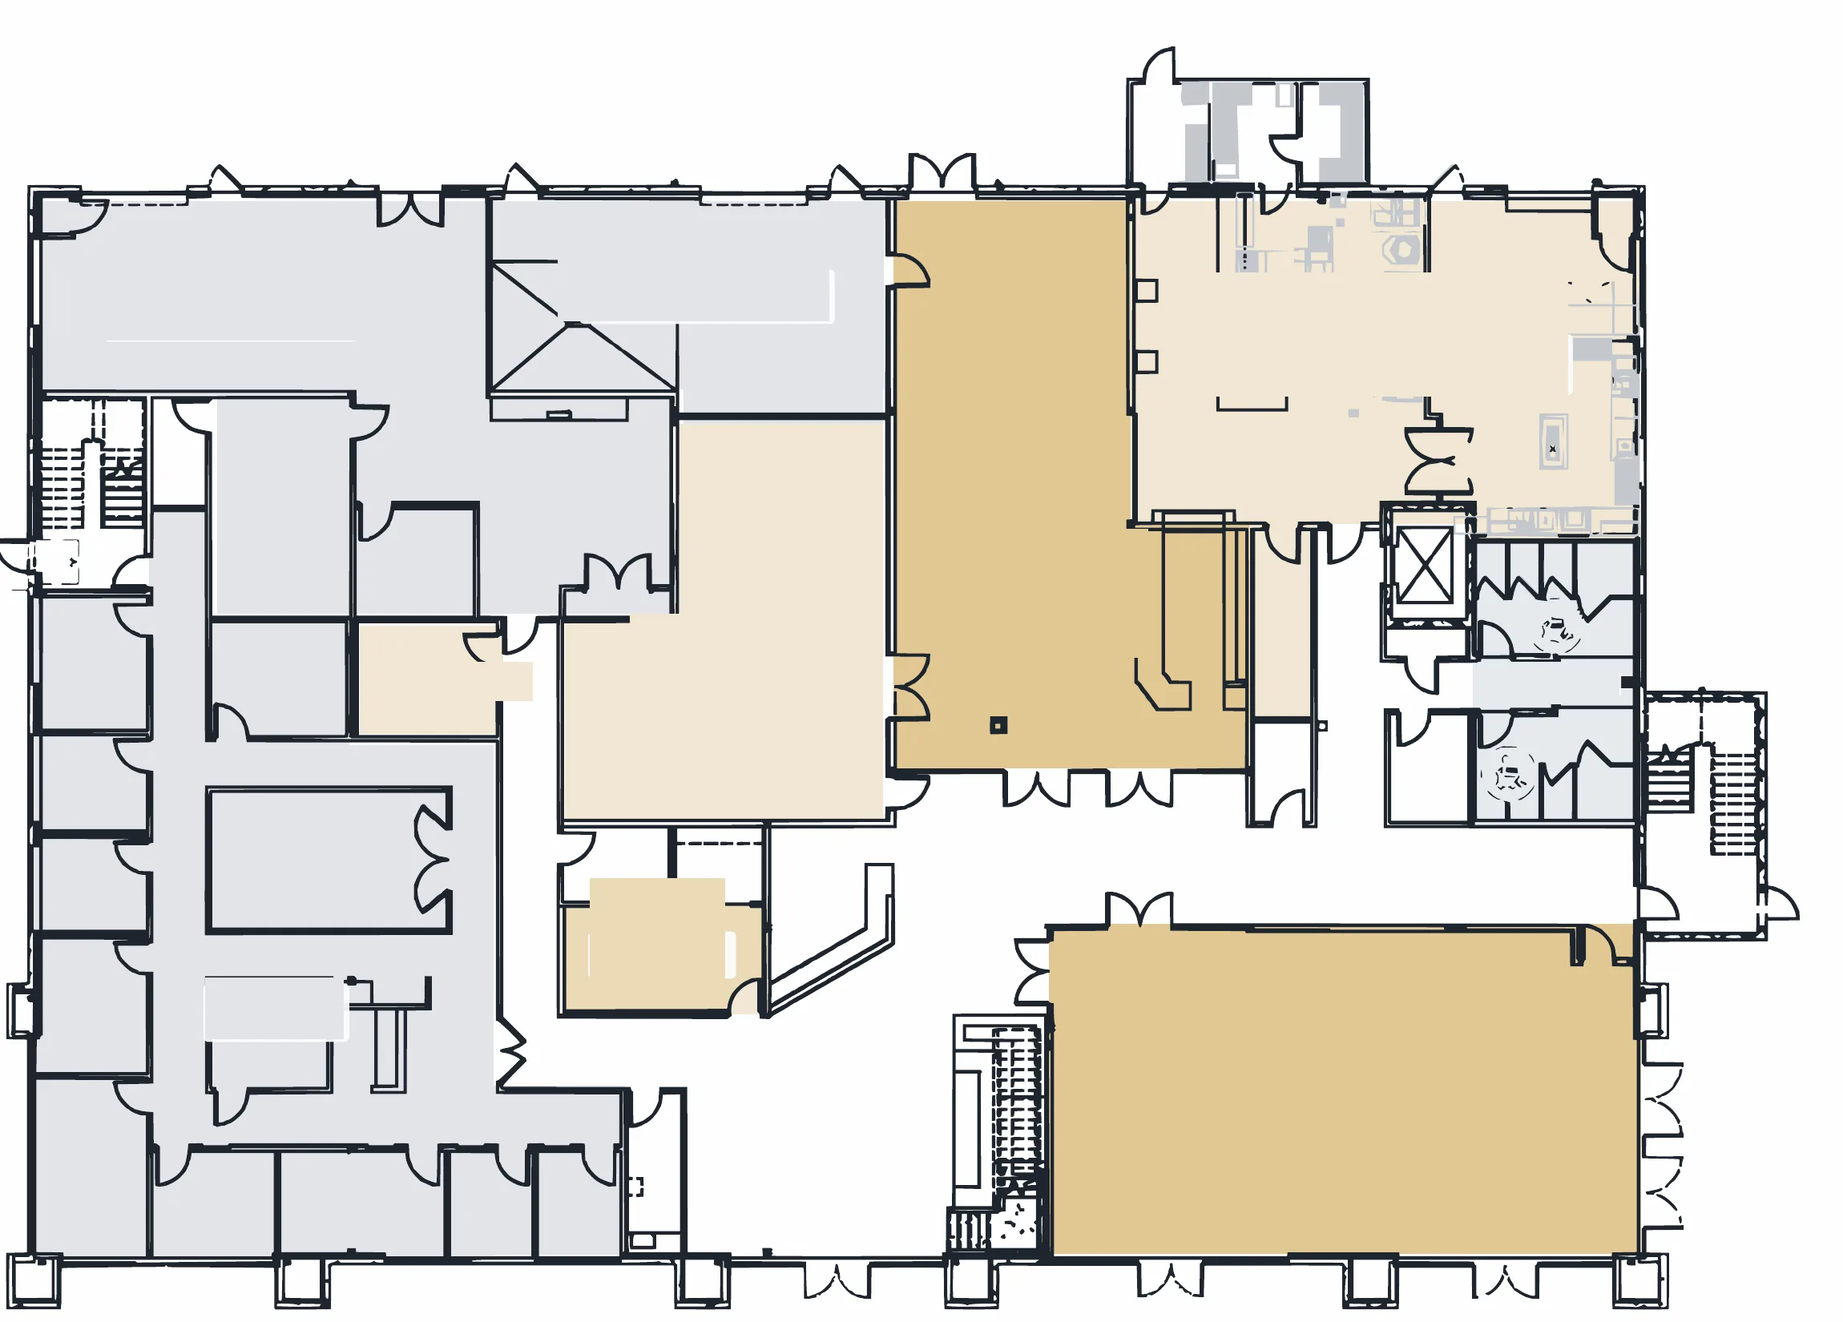
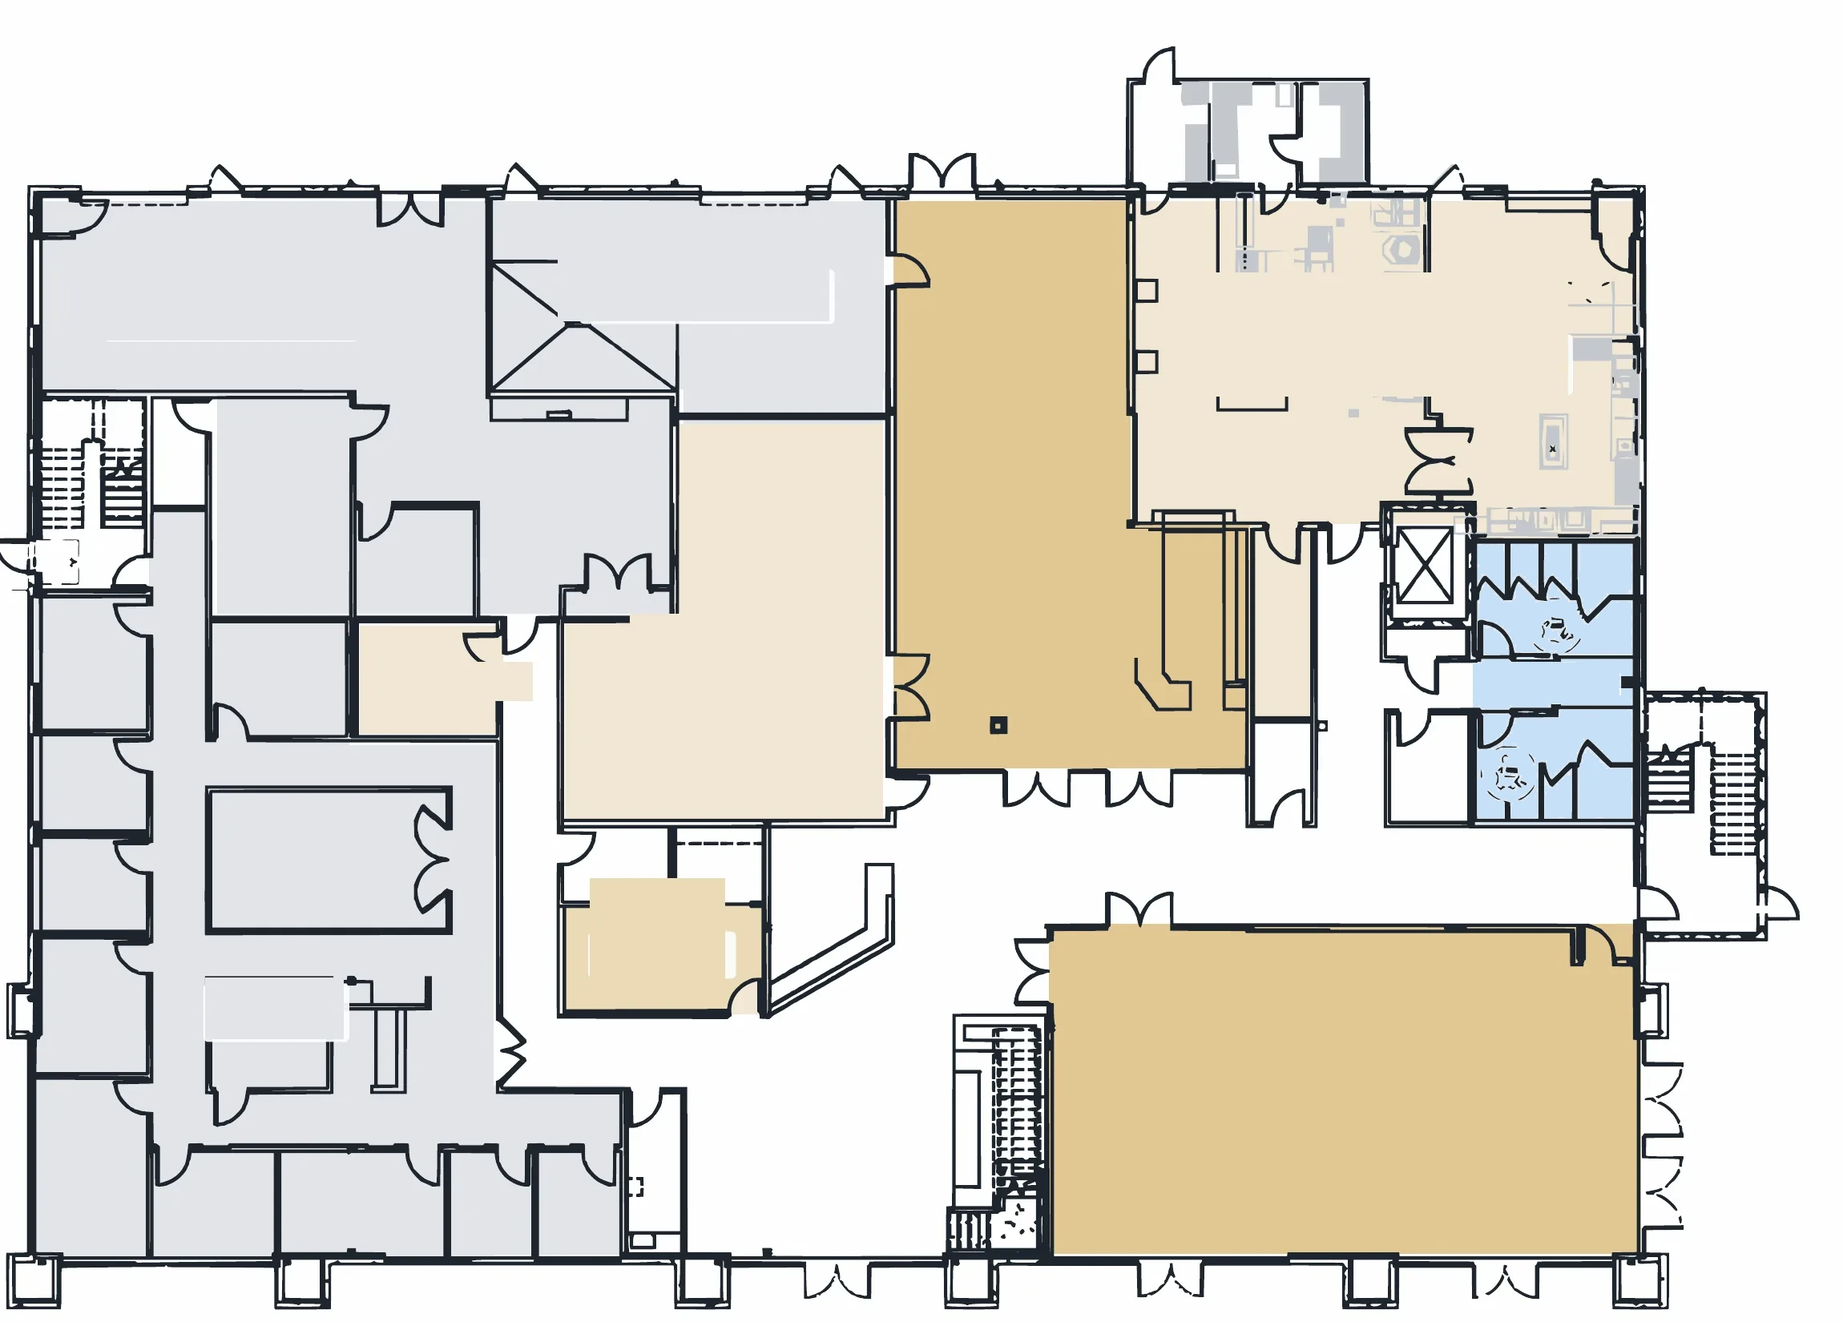
Explore: correct photos, Co-Revel hotspot, distinct restroom color
- RoboJo uses the lobby photo with the RoboJo kiosk (same image as the
  Our Community hero); Co-Revel Café uses the café counter with the
  Fresh Blends bar; Phone Booths uses the enclosed-booth photo
- Co-Revel hotspot now covers only the room labelled CO-REVEL (it
  spanned the whole west wing: offices, desks, Cornerstone, Horizon,
  booths)
- Floor maps: restrooms recolored a clear light blue (199,224,247);
  they were (230,234,237), nearly the tenant grey (227,228,232). Only
  the restroom block is changed; webp re-encoded at quality 90

Claude-Session: https://claude.ai/code/session_01WQH7hqD1qt1mryuk6DfRhT

Changed region(s): [[0.8026, 0.4018, 0.8952, 0.6182]]

diff --git a/explore/index.html b/explore/index.html
@@ -267,7 +267,7 @@ html{font-size:17px.footer .container{max-width:1600px;padding:0 48px}.footer-gr
     </svg>
     <svg id="xpSvg2" viewBox="0 0 2300 1500" role="group" aria-label="Second floor plan of Revelance" hidden>
       <image href="../images/map-floor2.webp" width="2300" height="1500"/>
-        <g class="xp-rg" data-id="corevel"><polygon class="xp-room" data-id="corevel" points="40,60 860,60 860,470 980,470 980,1420 40,1420"><title>Co-Revel Coworking</title></polygon><text x="510" y="1186" font-size="34">Co-Revel</text></g>
+        <g class="xp-rg" data-id="corevel"><polygon class="xp-room" data-id="corevel" points="48,1050 670,1050 670,1005 752,1000 915,912 972,1000 972,1415 48,1415"><title>Co-Revel Coworking</title></polygon><text x="510" y="1186" font-size="34">Co-Revel</text></g>
         <g class="xp-rg" data-id="cornerstone"><polygon class="xp-room" data-id="cornerstone" points="50,60 290,60 290,330 50,330"><title>Cornerstone Boardroom</title></polygon><text x="170" y="186" font-size="21">Cornerstone</text><text x="170" y="222" font-size="16">Boardroom</text></g>
         <g class="xp-rg" data-id="horizon"><polygon class="xp-room" data-id="horizon" points="456,864 664,864 664,1036 456,1036"><title>Horizon Boardroom</title></polygon><text x="560" y="940" font-size="22">Horizon</text><text x="560" y="974" font-size="17">Boardroom</text></g>
         <g class="xp-rg" data-id="overlook"><polygon class="xp-room" data-id="overlook" points="1016,486 1226,486 1226,676 1016,676"><title>Overlook Boardroom</title></polygon><text x="1120" y="576" font-size="22">Overlook</text><text x="1120" y="610" font-size="17">Boardroom</text></g>
@@ -310,7 +310,7 @@ html{font-size:17px.footer .container{max-width:1600px;padding:0 48px}.footer-gr
 </section>
 
 <script>
-var XP_ROOMS = {"revel": {"floor": 1, "name": "Revel Room", "label": "Event Center", "desc": "The event center. Weddings, galas, corporate events - with a built-in stage wall for presentations and celebrations alike.", "url": "../revel-room/", "img": "../images/revel-banquet-sunset.webp", "alt": "Banquet setup in the Revel Room at sunset", "video": null, "rows": [["Capacity", "125 banquet · 225 reception"], ["Features", "25-ft ceilings · 12×10 ft video wall"], ["Best for", "Weddings, galas, corporate events"], ["Booking", "Start with the event wizard"]]}, "taproom": {"floor": 1, "name": "The Taproom", "label": "First Floor", "desc": "Craft beer next door to everything. Cocktail hours flow straight from here into the Revel Room.", "url": "../taphouse/", "img": "../images/taphouse-overlook.webp", "alt": "Looking down into a full Taproom from the overlook", "video": null, "rows": [["Capacity", "60 seated · 80 standing"], ["Features", "Craft beer by Sonder Brewing · bartender included with events"], ["Best for", "Happy hours, cocktail receptions"], ["Booking", "Book with your event"]]}, "e9": {"floor": 1, "name": "Emergency 9", "label": "Golf Simulator", "desc": "Golf simulator lounge for practice, play, and client entertainment.", "url": "../e9/", "img": "../images/e9-golf-simulator.webp", "alt": "The Emergency 9 golf simulator", "video": null, "rows": [["Capacity", "25 seated · 40 standing"], ["Features", "ProTee VX simulator · 10×16 ft impact screen"], ["Best for", "Client entertainment, team events"], ["Booking", "Start with the event wizard"]]}, "culinary": {"floor": 1, "name": "Culinary Lab", "label": "Zink Foodservice", "desc": "Official Zink Culinary Center - classes, tastings, and the kitchen behind catered events.", "url": "../culinary-lab/", "img": "../images/culinary-lab.webp", "alt": "The Culinary Lab commercial kitchen", "video": null, "rows": [["Capacity", "20 seated · 30 standing"], ["Size", "400 sq ft commercial kitchen"], ["Features", "USDA-compliant · official Zink Culinary Center"], ["Best for", "Classes, tastings, catered events"], ["Booking", "Start with the event wizard"]]}, "foundation": {"floor": 1, "name": "Foundation Boardroom", "label": "First Floor", "desc": "The first-floor meeting room - steps from the Taproom and the event spaces.", "url": "../boardrooms/", "img": "../images/foundation-boardroom.webp", "alt": "The Foundation Boardroom", "video": null, "rows": [["Capacity", "Seats 10"], ["Features", "First-floor meeting room"], ["Best for", "Meetings, workshops"], ["Booking", "Bookable in the Revelance App"]]}, "corevel": {"floor": 2, "name": "Co-Revel Coworking", "label": "Members' Floor", "desc": "The members' floor - set apart from events below, so your workday never gets bumped by a banquet.", "url": "../coworking/", "img": "../images/cowork-community.webp", "alt": "The Co-Revel coworking floor", "video": null, "rows": [["Floor", "Dedicated 2nd floor · never displaced by events"], ["Features", "Open seating, dedicated desks, private offices"], ["Best for", "Daily work, teams, day passes"], ["Booking", "Included with membership"]]}, "csuite": {"floor": 2, "name": "C-Suite Lounge", "label": "Members' Floor", "desc": "The private lounge. Your bottle, your locker, your client's favorite pour already waiting - and the whole room can be rented for private events.", "url": "../c-suite/", "img": "../images/csuite-lifestyle-lounge.webp", "alt": "The C-Suite Lounge", "video": null, "rows": [["Capacity", "14 seated · 25 standing"], ["Features", "50 personal bourbon lockers · 65″ TV"], ["Best for", "Client entertainment, bourbon tastings, private events"], ["Booking", "Included with membership · also available to rent"]]}, "cornerstone": {"floor": 2, "name": "Cornerstone Boardroom", "label": "Second Floor", "desc": "The members-only boardroom, reserved for Dedicated Desk tiers and up.", "url": "../boardrooms/", "img": "../images/cornerstone-boardroom.webp", "alt": "The Cornerstone Boardroom", "video": null, "rows": [["Capacity", "Seats 10"], ["Access", "Dedicated Desk members & above"], ["Best for", "Team meetings"], ["Booking", "Bookable in the Revelance App"]]}, "horizon": {"floor": 2, "name": "Horizon Boardroom", "label": "Second Floor", "desc": "The executive boardroom - the big table for the big meeting.", "url": "../boardrooms/", "img": "../images/horizon-boardroom.webp", "alt": "The Horizon Boardroom", "video": null, "rows": [["Capacity", "Seats 14"], ["Features", "Executive boardroom"], ["Best for", "Board meetings, presentations, private meetings"], ["Booking", "Members book in the Revelance App · also available to rent"]]}, "overlook": {"floor": 2, "name": "Overlook Boardroom", "label": "Second Floor", "desc": "The small room with the big windows - built for focused sessions.", "url": "../boardrooms/", "img": "../images/overlook-boardroom.webp", "alt": "The Overlook Boardroom", "video": null, "rows": [["Capacity", "Seats 6"], ["Features", "Panoramic views"], ["Best for", "Focused sessions, 1-on-1s"], ["Booking", "Bookable in the Revelance App"]]}, "robojo": {"floor": 1, "name": "RoboJo Coffee", "label": "First-Floor Lobby", "desc": "The robotic barista in the lobby — immediately on your left as you come in the front doors. Order ahead in the app and your latte is waiting.", "url": "../blog/robojo-coffee-app-preorder-latte-art-rewards", "img": "../images/cowork-cafe-counter.webp", "alt": "The RoboJo coffee counter in the Revelance lobby", "video": null, "cta": "Read the Story", "rows": [["What", "Robotic barista café — espresso drinks & cold brew"], ["Order", "Preorder in the RoboJo app · latte art rewards"], ["Where", "Lobby, just inside the main entrance"], ["Access", "Open to the public"]]}, "podcast": {"floor": 1, "name": "Podcast Studio", "label": "First Floor", "desc": "The building's dedicated podcast room — record interviews, episodes, and company audio without leaving Revelance.", "url": "../coworking/", "img": "../images/podcast-studio-card.webp", "alt": "The Revelance Podcast Studio", "video": null, "cta": "Explore Membership", "rows": [["What", "Podcast & recording room"], ["Where", "First floor, beside the E9 Golf Simulator"], ["Details", "Ask the front desk · 513-794-5070"]]}, "cafe": {"floor": 2, "name": "Co-Revel Café", "label": "Members' Floor", "desc": "The members' café on the west wall of Co-Revel — home of the Fresh Blends robotic smoothie and shake bar.", "url": "../coworking/", "img": "../images/cowork-cafe-floor.webp", "alt": "The Co-Revel Café seating and counter area", "video": null, "cta": "Explore Co-Revel", "rows": [["What", "Café + Fresh Blends smoothie & shake bar"], ["Menu", "Smoothies, shakes, frappés, cold brew, refreshers"], ["Where", "West wall of Co-Revel, second floor"], ["Access", "Included with membership & day passes"]]}, "booths": {"floor": 2, "name": "Phone Booths", "label": "Members' Floor", "desc": "Private booths along the back wall of Co-Revel — step in, shut the door, take the call.", "url": "../coworking/", "img": "../images/coworking-space.webp", "alt": "The Co-Revel members' floor", "video": null, "cta": "Explore Co-Revel", "rows": [["What", "Private call & focus booths"], ["Where", "East side of Co-Revel, by the Overlook Boardroom"], ["Booking", "Walk up — no reservation needed"], ["Access", "Included with membership & day passes"]]}, "desks": {"floor": 2, "name": "Dedicated Desks", "label": "Members' Floor", "desc": "Your own enclosed desk pod in the heart of Co-Revel — set up once, leave your gear, and it's yours around the clock.", "url": "../memberships/#memberships", "img": "../images/cowork-focus-pods.webp", "alt": "Dedicated desk pods on the Co-Revel floor", "video": null, "cta": "See Membership Plans", "rows": [["What", "Your own enclosed desk pod"], ["Where", "Center of Co-Revel, second floor"], ["Access", "Dedicated Desk members & above"], ["Booking", "Included with the Dedicated Desk tier"]]}, "offices": {"floor": 2, "name": "Private Offices", "label": "Members' Floor", "desc": "Enclosed private offices along the west wall and north side of Co-Revel — a door, a desk, and the whole members' floor outside it.", "url": "../coworking/", "img": "../images/executive-office.webp", "alt": "A private office at Revelance", "video": null, "cta": "Explore Co-Revel", "rows": [["What", "Enclosed private offices"], ["Where", "West wall & north side of Co-Revel"], ["Details", "Ask about availability · 513-794-5070"]]}};
+var XP_ROOMS = {"revel": {"floor": 1, "name": "Revel Room", "label": "Event Center", "desc": "The event center. Weddings, galas, corporate events - with a built-in stage wall for presentations and celebrations alike.", "url": "../revel-room/", "img": "../images/revel-banquet-sunset.webp", "alt": "Banquet setup in the Revel Room at sunset", "video": null, "rows": [["Capacity", "125 banquet · 225 reception"], ["Features", "25-ft ceilings · 12×10 ft video wall"], ["Best for", "Weddings, galas, corporate events"], ["Booking", "Start with the event wizard"]]}, "taproom": {"floor": 1, "name": "The Taproom", "label": "First Floor", "desc": "Craft beer next door to everything. Cocktail hours flow straight from here into the Revel Room.", "url": "../taphouse/", "img": "../images/taphouse-overlook.webp", "alt": "Looking down into a full Taproom from the overlook", "video": null, "rows": [["Capacity", "60 seated · 80 standing"], ["Features", "Craft beer by Sonder Brewing · bartender included with events"], ["Best for", "Happy hours, cocktail receptions"], ["Booking", "Book with your event"]]}, "e9": {"floor": 1, "name": "Emergency 9", "label": "Golf Simulator", "desc": "Golf simulator lounge for practice, play, and client entertainment.", "url": "../e9/", "img": "../images/e9-golf-simulator.webp", "alt": "The Emergency 9 golf simulator", "video": null, "rows": [["Capacity", "25 seated · 40 standing"], ["Features", "ProTee VX simulator · 10×16 ft impact screen"], ["Best for", "Client entertainment, team events"], ["Booking", "Start with the event wizard"]]}, "culinary": {"floor": 1, "name": "Culinary Lab", "label": "Zink Foodservice", "desc": "Official Zink Culinary Center - classes, tastings, and the kitchen behind catered events.", "url": "../culinary-lab/", "img": "../images/culinary-lab.webp", "alt": "The Culinary Lab commercial kitchen", "video": null, "rows": [["Capacity", "20 seated · 30 standing"], ["Size", "400 sq ft commercial kitchen"], ["Features", "USDA-compliant · official Zink Culinary Center"], ["Best for", "Classes, tastings, catered events"], ["Booking", "Start with the event wizard"]]}, "foundation": {"floor": 1, "name": "Foundation Boardroom", "label": "First Floor", "desc": "The first-floor meeting room - steps from the Taproom and the event spaces.", "url": "../boardrooms/", "img": "../images/foundation-boardroom.webp", "alt": "The Foundation Boardroom", "video": null, "rows": [["Capacity", "Seats 10"], ["Features", "First-floor meeting room"], ["Best for", "Meetings, workshops"], ["Booking", "Bookable in the Revelance App"]]}, "corevel": {"floor": 2, "name": "Co-Revel Coworking", "label": "Members' Floor", "desc": "The members' floor - set apart from events below, so your workday never gets bumped by a banquet.", "url": "../coworking/", "img": "../images/cowork-community.webp", "alt": "The Co-Revel coworking floor", "video": null, "rows": [["Floor", "Dedicated 2nd floor · never displaced by events"], ["Features", "Open seating, dedicated desks, private offices"], ["Best for", "Daily work, teams, day passes"], ["Booking", "Included with membership"]]}, "csuite": {"floor": 2, "name": "C-Suite Lounge", "label": "Members' Floor", "desc": "The private lounge. Your bottle, your locker, your client's favorite pour already waiting - and the whole room can be rented for private events.", "url": "../c-suite/", "img": "../images/csuite-lifestyle-lounge.webp", "alt": "The C-Suite Lounge", "video": null, "rows": [["Capacity", "14 seated · 25 standing"], ["Features", "50 personal bourbon lockers · 65″ TV"], ["Best for", "Client entertainment, bourbon tastings, private events"], ["Booking", "Included with membership · also available to rent"]]}, "cornerstone": {"floor": 2, "name": "Cornerstone Boardroom", "label": "Second Floor", "desc": "The members-only boardroom, reserved for Dedicated Desk tiers and up.", "url": "../boardrooms/", "img": "../images/cornerstone-boardroom.webp", "alt": "The Cornerstone Boardroom", "video": null, "rows": [["Capacity", "Seats 10"], ["Access", "Dedicated Desk members & above"], ["Best for", "Team meetings"], ["Booking", "Bookable in the Revelance App"]]}, "horizon": {"floor": 2, "name": "Horizon Boardroom", "label": "Second Floor", "desc": "The executive boardroom - the big table for the big meeting.", "url": "../boardrooms/", "img": "../images/horizon-boardroom.webp", "alt": "The Horizon Boardroom", "video": null, "rows": [["Capacity", "Seats 14"], ["Features", "Executive boardroom"], ["Best for", "Board meetings, presentations, private meetings"], ["Booking", "Members book in the Revelance App · also available to rent"]]}, "overlook": {"floor": 2, "name": "Overlook Boardroom", "label": "Second Floor", "desc": "The small room with the big windows - built for focused sessions.", "url": "../boardrooms/", "img": "../images/overlook-boardroom.webp", "alt": "The Overlook Boardroom", "video": null, "rows": [["Capacity", "Seats 6"], ["Features", "Panoramic views"], ["Best for", "Focused sessions, 1-on-1s"], ["Booking", "Bookable in the Revelance App"]]}, "robojo": {"floor": 1, "name": "RoboJo Coffee", "label": "First-Floor Lobby", "desc": "The robotic barista in the lobby — immediately on your left as you come in the front doors. Order ahead in the app and your latte is waiting.", "url": "../blog/robojo-coffee-app-preorder-latte-art-rewards", "img": "../images/lobby-grand.webp", "alt": "The RoboJo robotic coffee bar in the Revelance lobby", "video": null, "cta": "Read the Story", "rows": [["What", "Robotic barista café — espresso drinks & cold brew"], ["Order", "Preorder in the RoboJo app · latte art rewards"], ["Where", "Lobby, just inside the main entrance"], ["Access", "Open to the public"]]}, "podcast": {"floor": 1, "name": "Podcast Studio", "label": "First Floor", "desc": "The building's dedicated podcast room — record interviews, episodes, and company audio without leaving Revelance.", "url": "../coworking/", "img": "../images/podcast-studio-card.webp", "alt": "The Revelance Podcast Studio", "video": null, "cta": "Explore Membership", "rows": [["What", "Podcast & recording room"], ["Where", "First floor, beside the E9 Golf Simulator"], ["Details", "Ask the front desk · 513-794-5070"]]}, "cafe": {"floor": 2, "name": "Co-Revel Café", "label": "Members' Floor", "desc": "The members' café on the west wall of Co-Revel — home of the Fresh Blends robotic smoothie and shake bar.", "url": "../coworking/", "img": "../images/cowork-cafe-counter.webp", "alt": "The Co-Revel Café counter with the Fresh Blends smoothie bar", "video": null, "cta": "Explore Co-Revel", "rows": [["What", "Café + Fresh Blends smoothie & shake bar"], ["Menu", "Smoothies, shakes, frappés, cold brew, refreshers"], ["Where", "West wall of Co-Revel, second floor"], ["Access", "Included with membership & day passes"]]}, "booths": {"floor": 2, "name": "Phone Booths", "label": "Members' Floor", "desc": "Private booths along the back wall of Co-Revel — step in, shut the door, take the call.", "url": "../coworking/", "img": "../images/cowork-focus-pods.webp", "alt": "Enclosed private phone booths on the Co-Revel floor", "video": null, "cta": "Explore Co-Revel", "rows": [["What", "Private call & focus booths"], ["Where", "East side of Co-Revel, by the Overlook Boardroom"], ["Booking", "Walk up — no reservation needed"], ["Access", "Included with membership & day passes"]]}, "desks": {"floor": 2, "name": "Dedicated Desks", "label": "Members' Floor", "desc": "Your own enclosed desk pod in the heart of Co-Revel — set up once, leave your gear, and it's yours around the clock.", "url": "../memberships/#memberships", "img": "../images/cowork-focus-pods.webp", "alt": "Dedicated desk pods on the Co-Revel floor", "video": null, "cta": "See Membership Plans", "rows": [["What", "Your own enclosed desk pod"], ["Where", "Center of Co-Revel, second floor"], ["Access", "Dedicated Desk members & above"], ["Booking", "Included with the Dedicated Desk tier"]]}, "offices": {"floor": 2, "name": "Private Offices", "label": "Members' Floor", "desc": "Enclosed private offices along the west wall and north side of Co-Revel — a door, a desk, and the whole members' floor outside it.", "url": "../coworking/", "img": "../images/executive-office.webp", "alt": "A private office at Revelance", "video": null, "cta": "Explore Co-Revel", "rows": [["What", "Enclosed private offices"], ["Where", "West wall & north side of Co-Revel"], ["Details", "Ask about availability · 513-794-5070"]]}};
 function xpPick(id){
   var r = XP_ROOMS[id];
   document.querySelectorAll('.xp-room').forEach(function(p){ p.classList.toggle('sel', p.dataset.id === id); });
